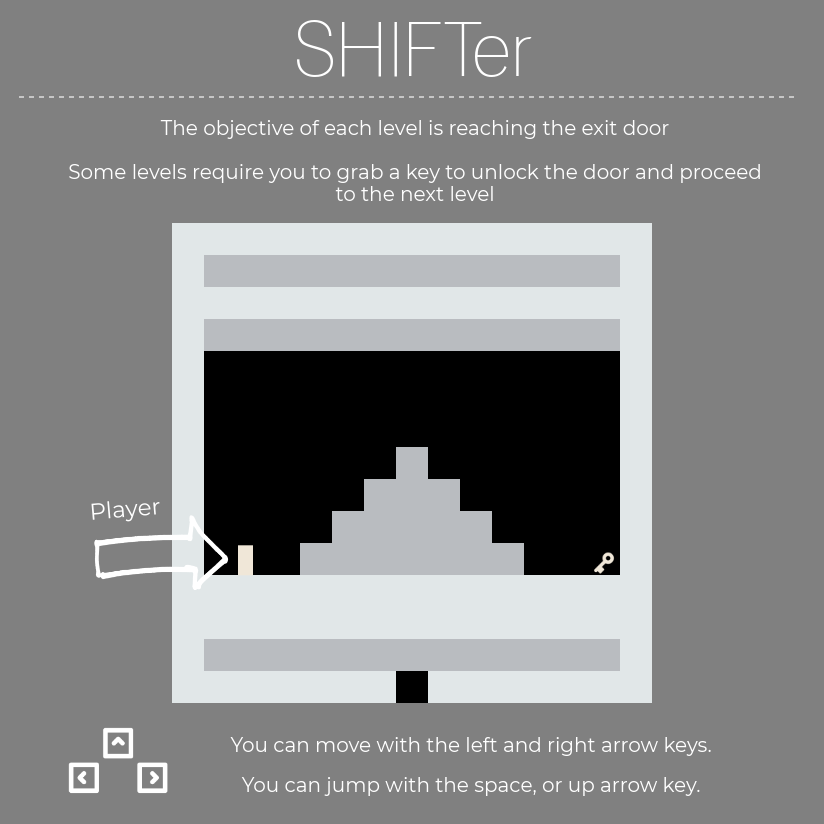
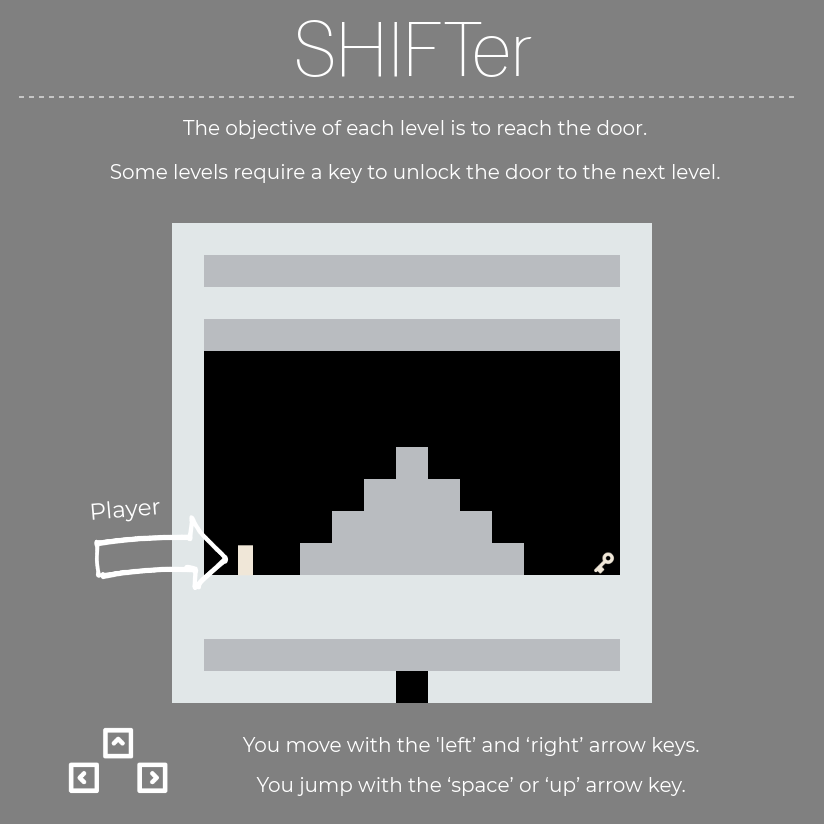
Added tutorial

Changed region(s): [[0.091, 0.1517, 0.9102, 0.2427], [0.2731, 0.8799, 0.8495, 0.9709]]

diff --git a/index.html b/index.html
@@ -5,6 +5,7 @@
   <meta charset="utf-8" />
   <title>SHIFTer</title>
   <meta name="viewport" content="width=device-width, initial-scale=1">
+  <link rel="stylesheet" href="https://use.fontawesome.com/releases/v5.3.1/css/all.css" integrity="sha384-mzrmE5qonljUremFsqc01SB46JvROS7bZs3IO2EmfFsd15uHvIt+Y8vEf7N7fWAU" crossorigin="anonymous">
   <link rel="stylesheet" type="text/css" media="screen" href="./main.css" />
   <link rel="shortcut icon" href="./images/favicon.ico" />
 </head>
@@ -22,21 +23,23 @@
           <button onclick="newGame()">Start</button>
         </li>
 
-        <!-- <li>
-          <button onclick="tutorial()">Tutorial</button>
-        </li> -->
+        <li>
+        <button onclick="tutorial()">Tutorial</button>
+        </li>
 
       </ul>
     </div>
   </nav>
   <div id="tutorial">
   </div>
-  <!-- <div>
-    <img src="images/tut-01.png" alt="Please refer to tut-01 image">
-    <img src="images/tut-02.png" alt="Please refer to tut-02 image">
-  </div> -->
+  <div id="slides">
+    <button id="nextSlide" onclick="nextSlide()"><i class="fas fa-angle-right"></i></button>
+    <button id="prevSlide" onclick="prevSlide()"><i class="fas fa-angle-left"></i></button>
+    <img id="tut-01" src="images/tut-01.png" alt="Please refer to tut-01 image">
+    <img id="tut-02" src="images/tut-02.png" alt="Please refer to tut-02 image">
+  </div>
   <canvas id="canvas"></canvas>
-  <span id="timer">Time: <span id="time">0</span></span>
+  <span id="timer">Time: <span id="time">0</span> s</span>
 </body>
 
 <script src="./levels.js"></script>

diff --git a/main.js b/main.js
@@ -27,8 +27,27 @@ function newGame() {
   canvas.style.margin = "0 25vw"; // Centers canvas
   timer.style.display = "block"; // Shows timer
 
+  document.getElementById("slides").style.display = "none";
+
   document.body.style.backgroundColor = currentColor[2];
   
   player.spawn();
   update();
+}
+
+function tutorial() {
+  document.getElementById("tut-01").style.display = "block";
+  document.getElementById("nextSlide").style.display = "block";
+}
+
+function nextSlide(){
+  document.getElementById("tut-02").style.display = "block";
+  document.getElementById("prevSlide").style.display = "block";
+  document.getElementById("nextSlide").style.display = "none";
+}
+
+function prevSlide(){
+  document.getElementById("tut-02").style.display = "none";
+  document.getElementById("prevSlide").style.display = "none";
+  document.getElementById("nextSlide").style.display = "block";
 }

diff --git a/player.js b/player.js
@@ -62,7 +62,7 @@ function playerMovement() {
     }
 
   if (keys[39]) if (player.velX < player.speed) player.velX++; // right
-  
+
   if (keys[37]) if (player.velX > -player.speed) player.velX--; // left
 
   if (player.velY !== 0) player.jumping = true; // This prevents the player from jumping mid-air when falling
@@ -131,7 +131,7 @@ function tileCollision(tile) {
       }
     }
   }
-  
+
   if (direction === "left" || direction === "right") player.velX = 0; // Prevents lateral movement
   if (direction === "bottom") {player.velY = 0; player.jumping = false;} // Prevents the player from getting inside the tile when jumping
   if (direction === "top") player.velY = 0; //  Maintains the player on tile

diff --git a/main.css b/main.css
@@ -85,3 +85,26 @@ canvas {
   right: 15%;
   top: 8%;
 }
+
+img {
+  display: none;
+  position: absolute;
+  right: 5%;
+  width: 43vw;
+}
+
+#slides button{
+  display: none;
+  font-size: 3rem;
+  color: white;
+  position: absolute;
+  top: 50vh;
+}
+
+#nextSlide {
+  left: 96vw;
+}
+
+#prevSlide {
+  left: 49vw;
+}
